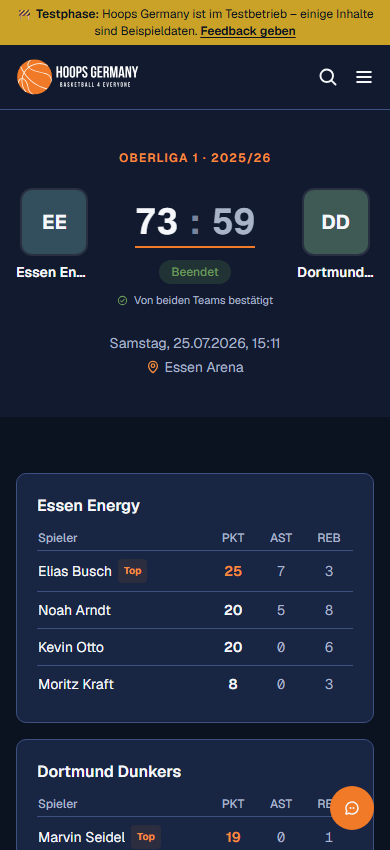
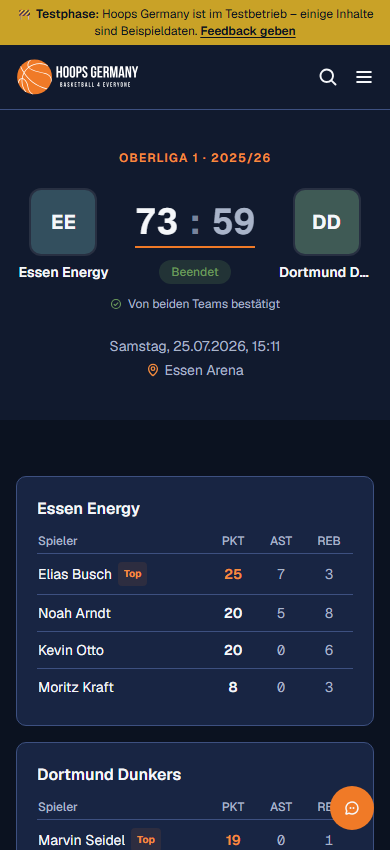
Kais kritischer Befund behoben: falsche Vertrauensaussage
resultStatus === "confirmed" war KEIN Beleg dafuer, dass beide Teams unabhaengig
gemeldet haben. Traegt ein Super-Admin ein Ergebnis ueber /admin/update-match ein
(Standardfall bei Mismatch-Aufloesung oder fehlender Rueckmeldung), setzt
app/api/admin/updatematch beide teamXResult-Objekte aus DERSELBEN Eingabe und
"confirmed" obendrauf. Der neue Satz "Von beiden Teams bestaetigt" haette also
auf jedem admin-gesetzten Spiel gestanden - eine falsche Vertrauensaussage genau
an der Stelle, an der die Plattform ihren Unterschied behauptet.

Belastbares Merkmal ist submittedBy: Es wird ausschliesslich im echten Meldeweg
gesetzt (app/api/team/submit-match-result), nie im Admin-Pfad. Die Anzeige
verlangt jetzt beide.

Dabei aufgefallen und mit einer Probe belegt (tmp/pruef-bestaetigt.mjs): In der
Dev-DB hat KEINES der 23 bestaetigten Spiele beidseitige Meldung - der Seed
erzeugt Ergebnisse direkt. Der neue Zweig waere also nie gerendert worden. Ich
habe ihn an einem Spiel voruebergehend erzwungen (tmp/bestaetigt-probe.mjs, nur
Dev-DB mit harter Abbruchpruefung), die Anzeige geprueft und den Eingriff
zurueckgenommen - Nachweis steht in beiden Zaehlungen.
Dabei zeigte sich: Der Satz stand in der Mittelspalte und quetschte die
Teamnamen auf 390px zu "Essen En…". Er steht jetzt unter der Teamzeile.

Kais uebrige drei Befunde ebenfalls erledigt:
- FeatureFocus reagiert jetzt auf einen Live-Wechsel von prefers-reduced-motion
[…]

diff --git a/app/match/[id]/page.js b/app/match/[id]/page.js
@@ -159,10 +159,23 @@ export default function MatchIdPage({ params }) {
   const score = teamScores(match);
   const completed = match.status === "completed";
   // Die Doppelbestätigung ist der Vertrauensunterschied der Plattform: Beide
-  // Teams haben unabhängig gemeldet und es stimmte überein. Genau dieser
-  // Zustandswechsel bekommt den Anzeigetafel-Moment – nicht jedes beliebige
-  // eingetragene Ergebnis.
-  const bestaetigt = match.resultStatus === "confirmed";
+  // Teams haben unabhängig gemeldet und es stimmte überein.
+  //
+  // `resultStatus === "confirmed"` allein reicht dafür NICHT als Beleg: Trägt
+  // ein Super-Admin ein Ergebnis über /admin/update-match ein (Standardfall bei
+  // Mismatch-Auflösung oder fehlender Rückmeldung), setzt die API beide
+  // teamXResult-Objekte aus derselben Eingabe und `confirmed` obendrauf –
+  // gemeldet hat dann aber nur eine Partei. Der Satz "Von beiden Teams
+  // bestätigt" wäre in dem Fall schlicht falsch, und eine falsche
+  // Vertrauensaussage ist an dieser Stelle der teuerste denkbare Fehler
+  // (Befund Kai, 12.08.2026).
+  //
+  // `submittedBy` ist das belastbare Merkmal: Es wird ausschließlich im echten
+  // Meldeweg gesetzt (app/api/team/submit-match-result), nie im Admin-Pfad.
+  const bestaetigt =
+    match.resultStatus === "confirmed" &&
+    !!match.teamAResult?.submittedBy &&
+    !!match.teamBResult?.submittedBy;
   const verify = matchVerification(match);
   const statsA = (match.playerStats || []).filter(
     (s) => String(s.team) === String(match.teamA?._id)
@@ -230,15 +243,19 @@ export default function MatchIdPage({ params }) {
               >
                 {completed ? "Beendet" : "Geplant"}
               </span>
-              {bestaetigt && (
-                <p className="mt-2 flex items-center justify-center gap-1.5 text-[11px] text-mist-400">
-                  <PiCheckCircleBold className="text-signal-ok" />
-                  Von beiden Teams bestätigt
-                </p>
-              )}
             </div>
             <TeamBadge team={match.teamB} />
           </div>
+
+          {/* Bewusst UNTER der Teamzeile, nicht in der Mittelspalte: Dort machte
+              der Satz die Spalte so breit, dass die Teamnamen auf 390px zu
+              "Essen En…" abgeschnitten wurden. */}
+          {bestaetigt && (
+            <p className="mt-3 flex items-center justify-center gap-1.5 text-xs text-mist-400">
+              <PiCheckCircleBold className="text-signal-ok" />
+              Von beiden Teams bestätigt
+            </p>
+          )}
 
           <div className="mt-6 flex flex-col items-center gap-1 text-sm text-mist-400">
             <span>{formatDate(match.date)}</span>

diff --git a/components/landing/FeatureFocus.js b/components/landing/FeatureFocus.js
@@ -1,6 +1,6 @@
 "use client";
 
-import { useEffect, useRef } from "react";
+import { useEffect, useRef, useState } from "react";
 
 // Maßstabssprung auf der Feature-Strecke (Konzept
 // docs/WOW-KONZEPT-2026-08-12.md, Stufe A.3).
@@ -28,6 +28,19 @@ const REICHWEITE = 0.55;
 export default function FeatureFocus({ className = "", children }) {
   const wrapRef = useRef(null);
   const tickingRef = useRef(false);
+  // Nicht nur einmal beim Aufsetzen abfragen: Wer die Systemeinstellung
+  // während des Besuchs umstellt, soll den Effekt sofort los sein. Der Zustand
+  // hängt am Effekt, damit dieser sauber neu aufgesetzt wird (Befund Kai;
+  // HeroScrollStage macht es bereits so, FeatureFocus war die Ausnahme).
+  const [ruhig, setRuhig] = useState(false);
+
+  useEffect(() => {
+    const abfrage = window.matchMedia("(prefers-reduced-motion: reduce)");
+    const update = () => setRuhig(abfrage.matches);
+    update();
+    abfrage.addEventListener("change", update);
+    return () => abfrage.removeEventListener("change", update);
+  }, []);
 
   useEffect(() => {
     const wrap = wrapRef.current;
@@ -35,8 +48,10 @@ export default function FeatureFocus({ className = "", children }) {
 
     // Reduzierte Bewegung: alles bleibt gleichwertig und voll sichtbar. Ein
     // gedämpfter Nachbar wäre hier kein „ruhiger Zustand", sondern ein
-    // dauerhaft schlechter lesbarer Text.
-    if (window.matchMedia("(prefers-reduced-motion: reduce)").matches) return;
+    // dauerhaft schlechter lesbarer Text. Beim Umschalten von „an" auf „aus"
+    // hat die Aufräumung des vorigen Durchlaufs die Stile bereits
+    // zurückgegeben – deshalb genügt hier der frühe Ausstieg.
+    if (ruhig) return;
 
     const zeilen = Array.from(wrap.children);
     zeilen.forEach((el) => {
@@ -82,7 +97,7 @@ export default function FeatureFocus({ className = "", children }) {
         el.style.transition = "";
       });
     };
-  }, []);
+  }, [ruhig]);
 
   return (
     <div ref={wrapRef} className={className}>

diff --git a/components/landing/HeroGlyphs.js b/components/landing/HeroGlyphs.js
@@ -8,30 +8,6 @@ import { forwardRef } from "react";
 // HeroScrollStage.js über die weitergereichte ref. Ball- und Korb-Motiv sind aus
 // dem bisherigen HeroBallArc.js übernommen (gleiche Nähte, gleiches Netz-Raster).
 
-// Drei-Punkte-Linie als Hintergrund-Motiv. Liegt am unteren Rand der Bühne und
-// ist bewusst breiter als der Viewport, damit die Bögen an den Seiten auslaufen.
-export const CourtArc = forwardRef(function CourtArc(props, ref) {
-  return (
-    <svg
-      ref={ref}
-      aria-hidden="true"
-      viewBox="0 0 400 200"
-      fill="none"
-      preserveAspectRatio="xMidYMax meet"
-      className="pointer-events-none absolute bottom-0 left-1/2 w-[150%] max-w-none -translate-x-1/2 opacity-0"
-      {...props}
-    >
-      <path
-        d="M24 200 L24 132 A176 176 0 0 0 376 132 L376 200"
-        stroke="#F07A27"
-        strokeWidth="2"
-        strokeLinecap="round"
-        vectorEffect="non-scaling-stroke"
-      />
-    </svg>
-  );
-});
-
 // Ball – fällt scroll-synchron zur Registrieren-Schaltfläche.
 export const BallGlyph = forwardRef(function BallGlyph(props, ref) {
   return (

diff --git a/components/ui/Card.js b/components/ui/Card.js
@@ -1,5 +1,5 @@
 // Einheitliche Karte („Panel" der Richtung Anzeigetafel): navy-800-Fläche auf
-// ink-950-Grund, 1px Rahmen in navy-600, kein Schatten. Tiefe entsteht durch die
+// navy-950-Grund, 1px Rahmen in navy-600, kein Schatten. Tiefe entsteht durch die
 // Flächenstufe, nicht durch Weichzeichnung – Schatten auf dunklem Grund sind
 // ohnehin unsichtbar und kosten nur Rendering.
 // padding: Tailwind-Padding-Klasse (Default p-5).

diff --git a/CLAUDE.md b/CLAUDE.md
@@ -110,9 +110,9 @@
   `/team/create` → wird Admin (`adminPlayerId`, `isTeamAdmin`, `teamAdminOf`, eigenes `teamId`).
   Verwaltung von `/team/admin` läuft über den **Spieler-Token** (Dual-Auth). `/team/login` &
   `/team/register` sind nur noch Redirects. `Team.email` ist optional (sparse).
-- **Design-Sprache (Redesign):** helle Seiten (`gray-50`) + **Navy-Flächen** (`bg-gradient-to-r from-slate-950 to-slate-800`) + Orange-Akzente (`brand-*`, `brand-500=#f97316`) + `font-black`-Headlines + Inter. Echte Assets in `public/images/` (`logo.svg` = weiße Wortmarke für Navy-Navbar; `logo-hoops.svg` = dunkel für helle Auth-Seiten; `login image.jpg`/`signupImage.jpg` = Hero-Motive, jeweils mit AVIF/WebP-Varianten `login-image-1000.*`/`signup-image-1000.*` über `AuthShell.js`). `registerimage.jpg`/`playerimage.jpg` waren nie bzw. nicht mehr im Einsatz (`/team/register` ist nur Redirect) und liegen seit 11.08.2026 archiviert in `docs/asset-archive/` (Befund: `docs/ABLAGE-AUDIT-BILDER-2026-08-11.md`). Namenskonvention für neue Bild-Varianten: `docs/NAMENSKONVENTION-BILDER.md` (Kebab-Case, `<basis>-<lange-Kante>.<format>`).
+- **Design-Sprache „Anzeigetafel“ (seit 12.08.2026, Spezifikation `docs/VISUELLE-RICHTUNG-2026-08-12.md`):** nachtblauer Grund `navy-950 #0B1220` (Navigation `navy-900 #111A2E`, Panels `navy-800 #182543`, Hover/Eingaben `navy-700 #223058`, Rahmen `navy-600 #3D5080`), Text `paper-50` / gedämpft `mist-300|400|600`, **ein** Akzent = das echte Logo-Orange `brand-500 #F07A27`, semantische Status in `signal-ok|wait|error`. Schriften: **Big Shoulders Display** (`font-display`, Headlines ab `text-2xl`, Eyebrows, große Zahlen), **Geist** (`font-sans`, Fließtext/UI), **Geist Mono** (`font-mono tabular-nums`, Zahlen in Tabellen) – Geist fehlt im Font-Katalog von Next 14.2.35, deshalb selbst gehostet aus `public/fonts/` über `next/font/local` (`lib/fonts.js`). Radien gestuft 6/10/16px (`rounded-sm|md|lg`). **Farbentscheid Patrick 12.08.2026:** Navy statt des ursprünglich von Vivien vorgeschlagenen warmen Braun – Navy + Orange ist für ihn die Basketball-Paarung. Die Skala heißt deshalb `navy-*`; die Stufung ist unverändert, nur der Farbton wechselte. Werte von Vivien gerechnet (`docs/WOW-KONZEPT-2026-08-12.md` Abschnitt 0). **Keine Verläufe, keine Schatten, kein Glow** – Tiefe entsteht aus Flächenstufe + 1px-Haarlinie. Signatur: 2px `brand-500`-Leiste an genau drei Stellen (Unterkante Navbar/PageHeader, Oberkante der einen hervorgehobenen Karte, aktive Stat-Zahl). Primärbutton = orange Fläche mit **dunklem** Text (`text-navy-950`, 6,88:1) – weiß auf Orange wäre 2,61:1. Icons: `react-icons/pi` (Phosphor Bold), **nicht** mehr `fa`. `app/globals.css` setzt `color-scheme: dark`, damit auch browsereigene Bedienelemente dunkel rendern. Echte Assets in `public/images/` (`logo.svg` = weiße Wortmarke für Navy-Navbar; `logo-hoops.svg` = dunkle Variante, seit dem Redesign nirgends mehr im Einsatz; `login image.jpg`/`signupImage.jpg` = Motive der Auth-Seiten (der **Hero der Startseite trägt seit 12.08.2026 kein Foto mehr**), jeweils mit AVIF/WebP-Varianten `login-image-1000.*`/`signup-image-1000.*` über `AuthShell.js`). `registerimage.jpg`/`playerimage.jpg` waren nie bzw. nicht mehr im Einsatz (`/team/register` ist nur Redirect) und liegen seit 11.08.2026 archiviert in `docs/asset-archive/` (Befund: `docs/ABLAGE-AUDIT-BILDER-2026-08-11.md`). Namenskonvention für neue Bild-Varianten: `docs/NAMENSKONVENTION-BILDER.md` (Kebab-Case, `<basis>-<lange-Kante>.<format>`).
 - **Wiederverwendbare Redesign-Bausteine:** `components/layout/AuthShell.js` (Split-Screen Auth),
-  `components/layout/PageHeader.js` (Navy-Banner für Listen), `components/Avatar.js`
+  `components/layout/PageHeader.js` (Seitenkopf auf `ink-900` mit Marken-Leiste), `components/Avatar.js`
   (generiertes Initialen-Logo mit deterministischer Namensfarbe – Fallback für Spieler & Teams, überall),
   `components/player/PlayerProfileView.js` (komplettes Spieler-Profil), `components/CityInput.js`
   (Stadt-Typeahead), `components/CityRadiusFilter.js` (Umkreis-Filter), `components/layout/Navbar.js`
@@ -121,7 +121,7 @@
   gemessen, kein Pinning, `prefers-reduced-motion` rendert Ball/Emblem gar nicht) mit
   `components/landing/HeroGlyphs.js` (Ball, Korb-Emblem, Spielfeld-Bogen als reine Vektoren).
 - **Designsystem-Primitive (`components/ui/`):** `Button` (Varianten primary/secondary/ghost/danger/
-  dangerGhost + Größen sm/md/lg, `href`→Link), `Tabs` (einheitlicher Pill-Umschalter), `Card`, `EmptyState`,
+  dangerGhost + Größen sm/md/lg, `href`→Link), `Tabs` (Umschalter mit Unterstreichung, kein Pill mehr), `Card`, `EmptyState`,
   `Loading` (Basketball-Spinner), `Skeleton`/`SkeletonCard`/`SkeletonList`, `FormAlert`
   (role=alert/aria-live), `ConfirmAction` (Bestätigungs-Popover statt `window.confirm`). Tokens in
   `lib/ui.js` (`inputClass`, `inputClassSm`, `inputClassNum`/`inputClassStat` – die beiden Zahlenfelder

diff --git a/docs/VISUELLE-RICHTUNG-2026-08-12.md b/docs/VISUELLE-RICHTUNG-2026-08-12.md
@@ -9,6 +9,17 @@ keine neuen npm-Abhängigkeiten, `prefers-reduced-motion`, mobil zuerst).
 
 ---
 
+> ⚠ **ÜBERHOLT IN EINEM PUNKT (Nachtrag 12.08.2026): Der Grundton ist Navy, nicht warmes Braun.**
+> Patrick hat nach dem Bau entschieden: „meiner Meinung nach war Navy Blau und Orange auch passend
+> dafür." Damit gilt die `ink`-Palette in diesem Dokument **nicht mehr**. Sie heißt im Code `navy-*`
+> und trägt nachtblaue Werte (950 `#0B1220`, 900 `#111A2E`, 800 `#182543`, 700 `#223058`,
+> 600 `#3D5080`, 500 `#56699B`); `paper-50` ist `#F5F7FA`, `mist-400` `#A9B4C9`, `mist-600` `#78839C`.
+> Gerechnete Kontraste und Begründung stehen in `docs/WOW-KONZEPT-2026-08-12.md` Abschnitt 0.
+> **Alles Übrige dieses Dokuments gilt unverändert** – Stufung der Flächen, 1px-Haarlinie statt
+> Schatten, Radien 6/10/16, die 2px-Markenleiste an genau drei Stellen, Schriften, Icon-Wechsel,
+> Primärbutton mit dunklem Text auf Orange. Viviens fachliche Gegenrede zu Navy (naheliegend, und
+> naheliegend kippe leicht ins Generische) steht im Wow-Konzept und wurde bewusst überstimmt.
+
 ## 0. Kurzfassung
 
 Was heute da ist, ist technisch sauber und inhaltlich ehrlich – aber visuell
